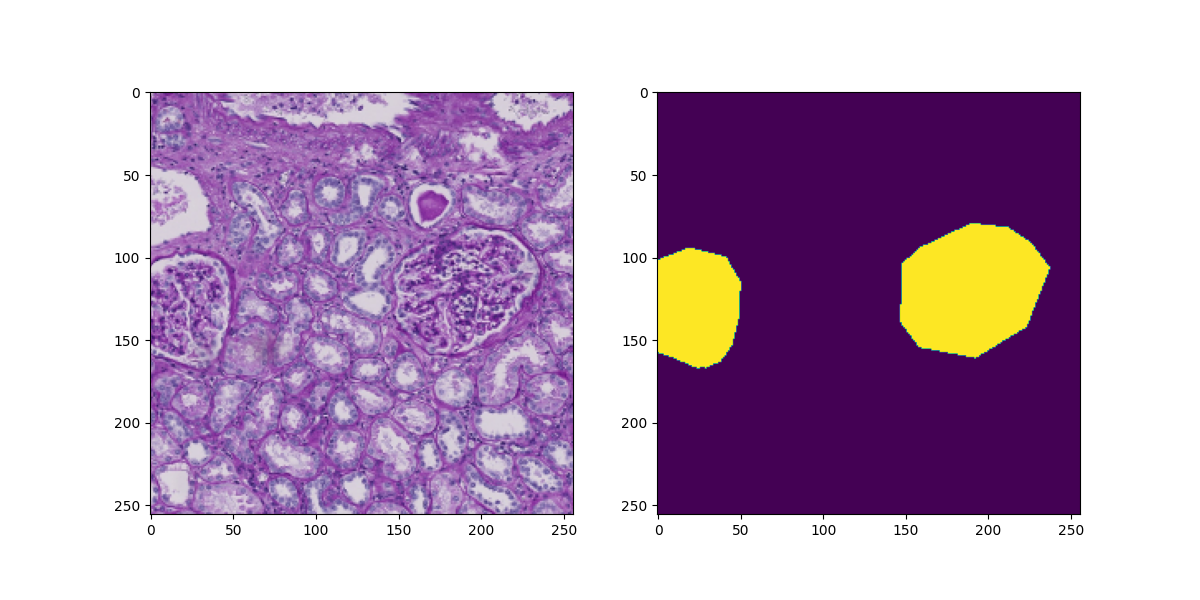
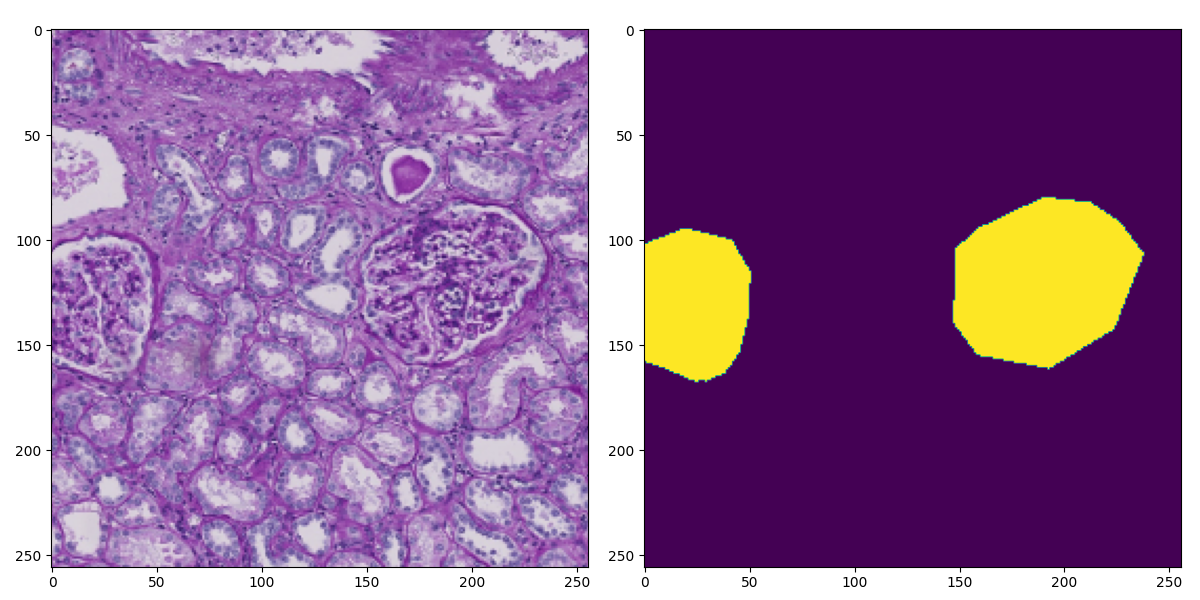
updated figures.

diff --git a/main.py b/main.py
@@ -101,6 +101,7 @@ def main(args):
         plt.imshow(masks[4].numpy().transpose(1, 2, 0))
         plt.subplot(1, 3, 3)
         plt.imshow(outputs[4].detach().cpu().numpy().transpose(1, 2, 0))
+        plt.tight_layout()
         plt.savefig('figure/output.png')
 
         break

diff --git a/datasets.py b/datasets.py
@@ -58,6 +58,7 @@ if __name__ == '__main__':
         plt.imshow(images[4].numpy().transpose(1, 2, 0))
         plt.subplot(1, 2, 2)
         plt.imshow(masks[4].numpy().transpose(1, 2, 0))
+        plt.tight_layout()
         plt.savefig('figure/input.png')
 
         break
